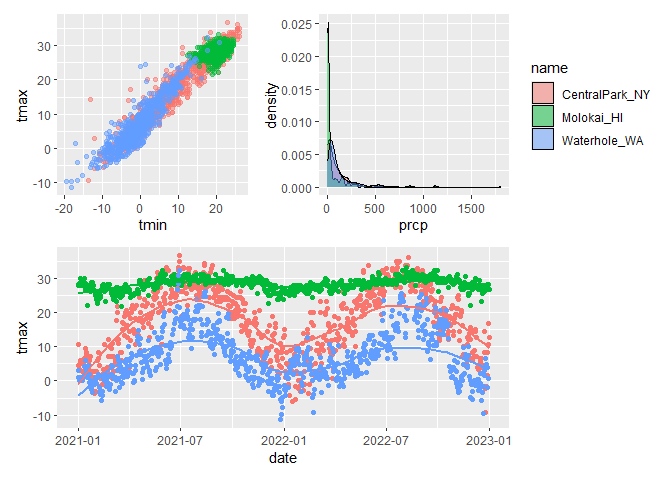
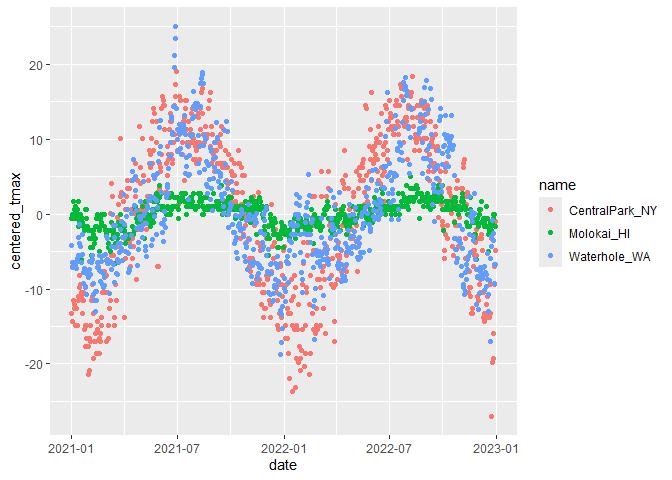
group_by() and mutate() and some neat summaries

diff --git a/viz_2.md b/viz_2.md
@@ -309,3 +309,79 @@ weather_df %>%
 | 2022-10-01 |           17.4 |       29.2 |         11.9 |
 | 2022-11-01 |           14.0 |       28.0 |          2.1 |
 | 2022-12-01 |            6.8 |       27.3 |           NA |
+
+## ‘group_by()’ and ‘mutate()’
+
+``` r
+weather_df %>%
+  group_by(name) %>% 
+  mutate(
+    mean_tmax = mean(tmax, na.rm = TRUE), 
+    centered_tmax = tmax - mean_tmax
+  ) %>%
+  ggplot(aes(x = date, y = centered_tmax, color = name)) +
+  geom_point()
+```
+
+    ## Warning: Removed 17 rows containing missing values or values outside the scale range
+    ## (`geom_point()`).
+
+![](viz_2_files/figure-gfm/unnamed-chunk-12-1.png)<!-- -->
+
+what about window functions
+
+``` r
+weather_df %>% 
+  group_by(name, month) %>% 
+  # 'min_rank()' ranks from the smallest value. 'min_rank(desc())' ranks from the largest value.
+  mutate(temp_rank = min_rank(tmax)) %>% 
+  filter(temp_rank == 1)
+```
+
+    ## # A tibble: 92 × 8
+    ## # Groups:   name, month [72]
+    ##    name           id          date        prcp  tmax  tmin month      temp_rank
+    ##    <chr>          <chr>       <date>     <dbl> <dbl> <dbl> <date>         <int>
+    ##  1 CentralPark_NY USW00094728 2021-01-29     0  -3.8  -9.9 2021-01-01         1
+    ##  2 CentralPark_NY USW00094728 2021-02-08     0  -1.6  -8.2 2021-02-01         1
+    ##  3 CentralPark_NY USW00094728 2021-03-02     0   0.6  -6   2021-03-01         1
+    ##  4 CentralPark_NY USW00094728 2021-04-02     0   3.9  -2.1 2021-04-01         1
+    ##  5 CentralPark_NY USW00094728 2021-05-29   117  10.6   8.3 2021-05-01         1
+    ##  6 CentralPark_NY USW00094728 2021-05-30   226  10.6   8.3 2021-05-01         1
+    ##  7 CentralPark_NY USW00094728 2021-06-11     0  20.6  16.7 2021-06-01         1
+    ##  8 CentralPark_NY USW00094728 2021-06-12     0  20.6  16.7 2021-06-01         1
+    ##  9 CentralPark_NY USW00094728 2021-07-03    86  18.9  15   2021-07-01         1
+    ## 10 CentralPark_NY USW00094728 2021-08-04     0  24.4  19.4 2021-08-01         1
+    ## # ℹ 82 more rows
+
+lag
+
+``` r
+weather_df %>% 
+  group_by(name, month) %>% 
+  # 'lag()' observes each last row of the current row
+  mutate(lag_temp = lag(tmax), temp_change = tmax - lag_temp) %>% 
+  summarize(
+    temp_change_max = max(temp_change, na.rm = TRUE),
+    tmep_change_sd = sd(temp_change, na.rm = TRUE)
+  )
+```
+
+    ## `summarise()` has grouped output by 'name'. You can override using the
+    ## `.groups` argument.
+
+    ## # A tibble: 72 × 4
+    ## # Groups:   name [3]
+    ##    name           month      temp_change_max tmep_change_sd
+    ##    <chr>          <date>               <dbl>          <dbl>
+    ##  1 CentralPark_NY 2021-01-01             6.2           2.92
+    ##  2 CentralPark_NY 2021-02-01             8.4           3.55
+    ##  3 CentralPark_NY 2021-03-01            11.7           5.92
+    ##  4 CentralPark_NY 2021-04-01            11.6           5.98
+    ##  5 CentralPark_NY 2021-05-01            10.5           5.43
+    ##  6 CentralPark_NY 2021-06-01             6.1           2.82
+    ##  7 CentralPark_NY 2021-07-01             8.4           3.74
+    ##  8 CentralPark_NY 2021-08-01             5             2.82
+    ##  9 CentralPark_NY 2021-09-01             5             2.69
+    ## 10 CentralPark_NY 2021-10-01             7.8           3.64
+    ## # ℹ 62 more rows
